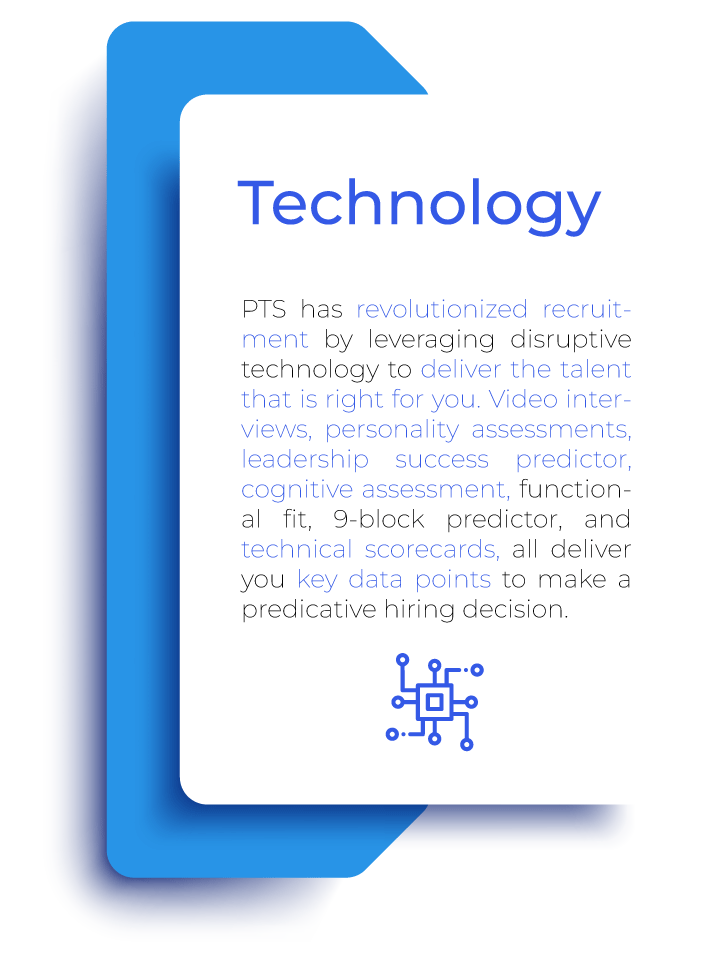
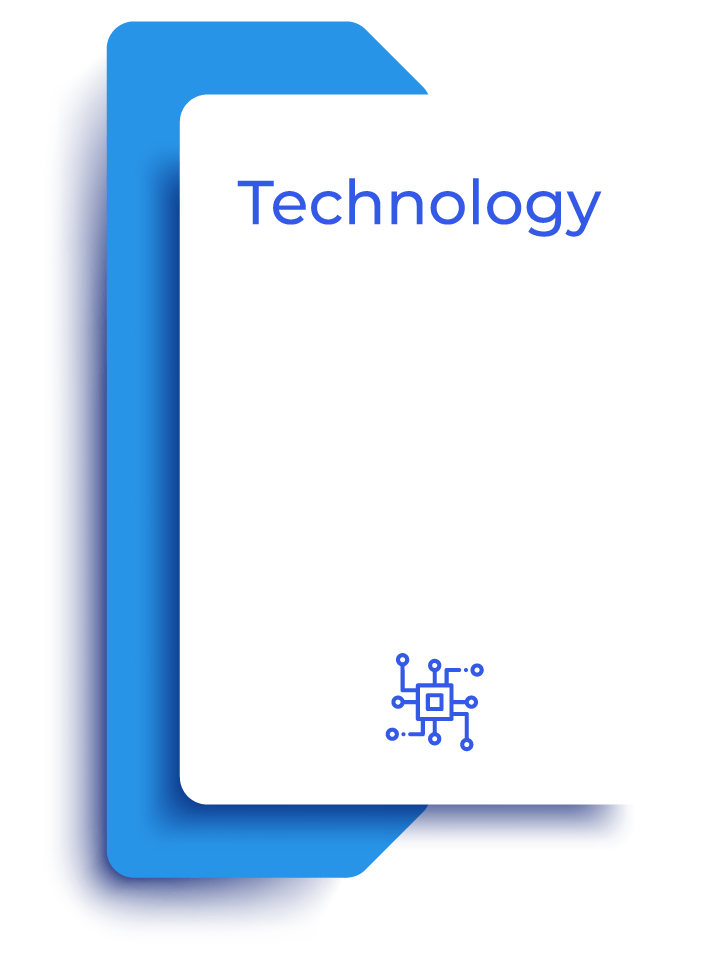
optimising site based on jake

Changed region(s): [[0.3385, 0.309, 0.8923, 0.6488], [0.4308, 0.309, 0.4615, 0.3399]]

diff --git a/index.html b/index.html
@@ -178,20 +178,17 @@ seo:
 
 </section>
 
-<section id="why-pts" class="padded grid-spaceAround center">
+<section id="why-pts" class="padded-8 grid-spaceAround center">
   <h2 class="col-12 p-b-3 p-t-2 blue bold">Why PTS?</h2>
   <p class="col-12 p-b-2 center">Precision Talent Solutions is not your average executive search firm or recruitment agency. We are consulting partners helping our customers solve the greatest challenge of the government contracting industry: talent. </p>
       <!-- changed this to col-4 because it was wacky on large sized monitors -->
-  <div class="col-4_md-12 why-pts padded bg-threes">
-      <h3 class="p-b-2 center">Experience</h3>
+  <div class="col-4_md-12 why-pts padded-8 bg-experience threes">
       <p>Over 400 years of cumulative government contracting experience from the C-Suite level to the field technical professional level, gives our team the knowledge about the  programs and agencies driving our industry. We have mapped the industry, and each of our 35+ team members bring their extensive network to our customers.    </p>
   </div>
-  <div class="col-4_md-12 why-pts padded">
-      <h3 class="p-b-2 center">Technology</h3>
+  <div class="col-4_md-12 why-pts padded-8 bg-technology threes">
       <p> PTS has revolutionized recruitment by leveraging disruptive technology to deliver the talent that is right for you. Video interviews, personality assessments, leadership success predictor, cognitive assessment, functional fit, 9-block predictor, and technical scorecards, all deliver you key data points to make a predicative hiring decision. We invest heavily in our sourcing technology, including numerous LinkedIn Recruiter seats, and access to Clearance Jobs, Indeed, and X-Ray.   </p>
   </div>
-  <div class="col-4_md-12 why-pts padded">
-      <h3 class="p-b-2 center">Philosophy</h3>
+  <div class="col-4_md-12 why-pts padded-8 bg-philosophy threes">
       <p>We understand the importance of building the right teams in this industry. Most members of PTS served as hiring managers and understand what you are faced with. We start every team meeting with the phrase, “treat your candidates like customers.” Our philosophy towards empathetic recruitment personifies our core values of integrity, communication, respect, initiative, and added value.  </p>
   </div>
 

diff --git a/style.css b/style.css
@@ -116,6 +116,7 @@ h3{
   padding-left: 5%;
 }
 .padded-3   {  padding: 3.5%;    }
+.padded-8   {  padding: 8%;    }
 .padded-05 {  padding: 0.5rem;  }
 .padded-1 {  padding: 1rem;  }
 .padded-2 {  padding: 2rem;  }
@@ -324,6 +325,14 @@ footer ul li::before {
 .blue-left{
     border-left: 2px solid #2B94E7;
 }
+
+.threes p{
+    line-height: 1.2;
+    font-size: 1rem;
+    margin-top: 24%;
+    margin-left: 9%;
+}
+
 
 /* Button and link styles */
 
@@ -858,7 +867,21 @@ footer li{
     background-image: url('/images/placements-structure.png');
 }
 
-.bg-threes{
+.bg-experience{
+    background-image: url('/images/experience.png');
+    background-position: center;
+    background-size: cover;
+    background-repeat: no-repeat;
+}
+
+.bg-philosophy{
+    background-image: url('/images/philosophy.png');
+    background-position: center;
+    background-size: cover;
+    background-repeat: no-repeat;
+}
+
+.bg-technology{
     background-image: url('/images/technology.png');
     background-position: center;
     background-size: cover;
